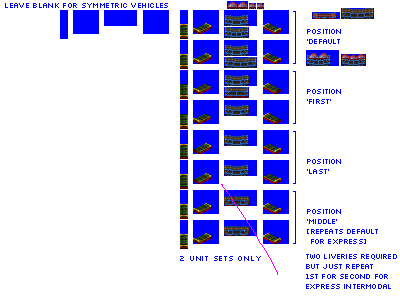
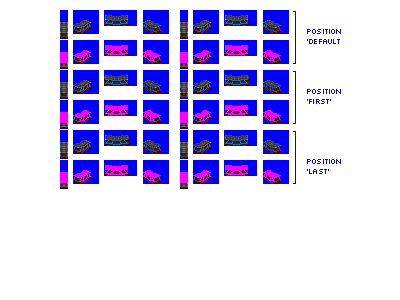
Change: gen 4B and 5B double deck automobile cars

diff --git a/src/vehicles/pony/double_deck_automobile_cars_pony.py b/src/vehicles/pony/double_deck_automobile_cars_pony.py
@@ -3,18 +3,18 @@ from train import AutomobileDoubleDeckCarConsist, AutomobileCarAsymmetric
 
 def main(roster_id, **kwargs):
     # --------------- standard gauge ---------------------------------------------------------------    # intro gen 4
-    """
+
     consist = AutomobileDoubleDeckCarConsist(
         roster_id=roster_id,
         roster_id_providing_module = kwargs["roster_id_providing_module"],
-        base_numeric_id=5790,
+        base_numeric_id=26760,
         gen=4,
         subtype="B",
-        sprites_complete=False,
+        sprites_complete=True,
     )
 
-    consist.add_unit(type=AutomobileCarAsymmetric, chassis="2_axle_running_gear_only_24px")
-    """
+    consist.add_unit(type=AutomobileCarAsymmetric, chassis="2_axle_lwb_filled_24px")
+
     consist = AutomobileDoubleDeckCarConsist(
         roster_id=roster_id,
         roster_id_providing_module=kwargs["roster_id_providing_module"],
@@ -27,18 +27,18 @@ def main(roster_id, **kwargs):
     consist.add_unit(
         type=AutomobileCarAsymmetric, chassis="4_axle_running_gear_only_32px"
     )
-    """
+
     consist = AutomobileDoubleDeckCarConsist(
         roster_id=roster_id,
         roster_id_providing_module = kwargs["roster_id_providing_module"],
-        base_numeric_id=5810,
+        base_numeric_id=26770,
         gen=5,
         subtype="B",
-        sprites_complete=False,
+        sprites_complete=True,
     )
 
-    consist.add_unit(type=AutomobileCarAsymmetric, chassis="2_axle_running_gear_only_24px")
-    """
+    consist.add_unit(type=AutomobileCarAsymmetric, chassis="2_axle_lwb_filled_24px")
+
     consist = AutomobileDoubleDeckCarConsist(
         roster_id=roster_id,
         roster_id_providing_module=kwargs["roster_id_providing_module"],

diff --git a/src/gestalt_graphics/gestalt_graphics.py b/src/gestalt_graphics/gestalt_graphics.py
@@ -726,6 +726,12 @@ class GestaltGraphicsAutomobilesTransporter(GestaltGraphics):
         # note to self, remarkably adding multiple empty rows appears to just work here :o
         if self.consist_ruleset == "1_unit_sets":
             result = ["empty"]
+        elif self.consist_ruleset == "2_unit_sets":
+            result = [
+                "empty",
+                "empty",
+                "empty",
+            ]
         elif self.consist_ruleset == "4_unit_sets":
             result = [
                 "empty",
